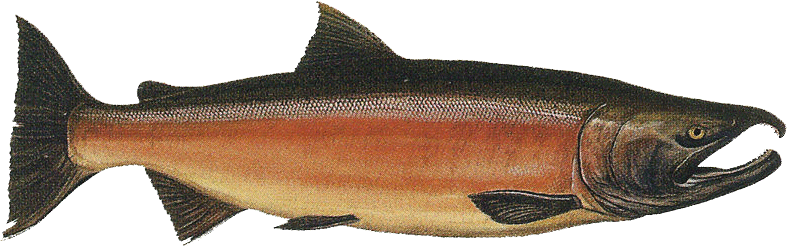
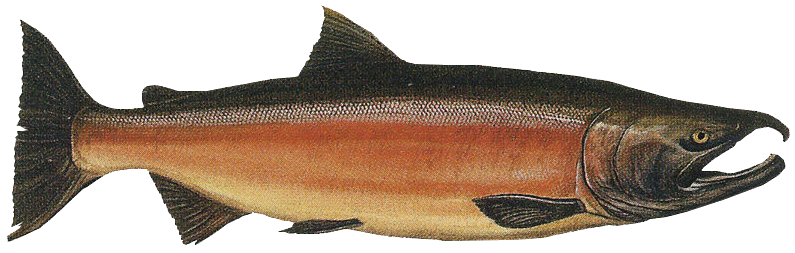
fixed more css and edited the image to remove white encroachment

Changed region(s): [[0.0, 0.0, 1.0, 0.9959]]

diff --git a/css/style.css b/css/style.css
@@ -27,7 +27,7 @@ h3 {
 }
 
 #cookieShopHourlyValues {
-  width: 60vw;
+  width: 75vw;
   min-width: 630px;
   border: 5px #525E75 solid;
   border-radius: 12px;
@@ -43,7 +43,7 @@ h3 {
 
 header {
   position: relative;
-  width: 60vw;
+  width: 75vw;
   min-width: 660px;
   aspect-ratio: 787 / 246;
   border: 5px solid #525E75;
